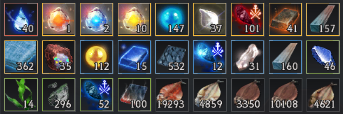
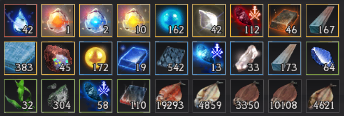
dsff

diff --git a/black.html b/black.html
@@ -318,6 +318,7 @@
           <input type = "text" maxlength = "10"><button>1</button>
           <input type = "text" maxlength = "10"><button>1</button>
           <input type = "text" maxlength = "10"><button>1</button>
+          <div id="S1_일리야에페리아창고">일리에페</div><!-- width등-->
           <br>
           <input type = "text" maxlength = "10"><button>1</button>
           <input type = "text" maxlength = "10"><button>1</button>
@@ -412,8 +413,9 @@
         <form onsubmit="return false"><input type = "text" maxlength = "10"></form>
         <div></div><!--width등--><span>, </span>
 
-        <button id="textarea기능버튼" onclick="textarea보기숨기기()">textarea올리기</button>
-        <button onclick="섬검색초기화()">섬검색결과 초기화</button>
+        <button id="textarea보기숨기기">textarea올리기</button>
+        <button id="섬검색초기화">섬검색결과 초기화</button>
+        <button><a href="https://creativefactorys.tistory.com/entry/%EA%B2%80%EC%9D%80%EC%82%AC%EB%A7%89-%EC%BD%95%EC%8A%A4-%ED%95%B4%EC%A0%81%EB%8B%A8-%EC%9C%A0%EB%A0%B9%EC%84%A0-%EB%A7%89%EC%82%AC-%EB%A3%A8%ED%8A%B8-%EC%A0%95%EB%A6%AC" target="_blank">파도빛각목</a></button>
 
         <h5 style="height:3px;padding:0px;margin:0px;"></h5>
 
@@ -463,9 +465,9 @@
         </textarea>
         <div style="height:195px;"></div>
         <div id="덩어리이동5개textarea">
-          <button onclick=" 덩어리이동5개textarea_모두보기()">기본보기</button>
-          <button onclick=" 덩어리이동5개textarea_두개숨기기()">3번째부터보기</button>
-          <button onclick=" 덩어리이동5개textarea_네개숨기기()">5번째보기</button><br>
+          <button id="textarea덩어리_기본보기">기본보기</button>
+          <button id="textarea덩어리_3번째부터보기">3번째부터보기</button>
+          <button id="textarea덩어리_5번째보기">5번째보기</button><br>
           <textarea>5조각상의 눈물 : 해적의 열쇠,일리야
             5 팔랑나비 박제품 : 목 잘린 용 조각상, 바레미
             5 102년 묵은 황금초 : 뱃사공의 수련서, 오르프스
@@ -525,6 +527,8 @@
                     </textarea>
 
         </div>
+        <img id="S1_일리야창고" style="position: absolute;left:670px;visibility:hidden;" src="portal/images/black_문서/S1_창고_일리야.png" alt="이미지없음"><!--margin-bottom:2px;margin-left:-8px;-->
+        <img id="S1_에페리아창고" style="position: absolute;left:510px;visibility:hidden;" src="portal/images/black_문서/S1_창고_에페리아.png" alt="이미지없음"><!--margin-bottom:2px;margin-left:-8px;-->
         <img src="portal/images/black_문서/S1_해역사진.png" alt="이미지없음"><!--margin-bottom:2px;margin-left:-8px;-->
         <br><br><br><br><br><br><br><br><br><br><br><br><br><br><br><br><br><br><br><br>
         <br><br><br><br><br><br><br><br><br><br><br><br><br><br><br><br><br><br><br><br>
@@ -533,68 +537,68 @@
         <div id="모은재료_파템재료"><!-- 빈칸도 만들고, 세로로 나열됨 -->
           <div id="파템_일반재료1" class="d-inline-block 재료높이"><!--vertical-align: top-->
             <div><button>일반</button><button class="노랑">보유</button><button>점진</button><button>균형</button><button>비상</button><button>용맹</button></div><!-- 심해의 눈물 1-->
-            <div><button title="심해의 눈물"    ></button><button class="노랑"></button><button>42</button><button>50</button><button>42</button><button>42</button></div><!-- 심해의 눈물 1-->
+            <div><button title="[라비켈] '어린' 검은무쇠이빨 1개"    ></button><button class="노랑"></button><button>42</button><button>50</button><button>42</button><button>42</button></div><!-- 심해의 눈물 1-->
             <div><button title="화려한 진주 결정"></button><button class="노랑"></button><button>35</button><button>30</button><button>30</button><button>30</button></div><!-- 화려한 진주 결정-->
             <div><button title="화려한 암염 주괴"></button><button class="노랑"></button><button>35</button><button>30</button><button>30</button><button>30</button></div><!-- 화려한 암염 주괴-->
             <div><button title="짙은 파도빛 각목"></button><button class="노랑"></button><button>144</button><button>144</button><button>144</button><button>170</button></div><!--짙은 파도빛이 감도는 규격 각목 3 -->
             <div><button title="달의 핏줄 아마포"></button><button class="노랑"></button><button>180</button><button>180</button><button>210</button><button>180</button></div><!-- 달의 핏줄이 새겨진 아마포 3-->
 
-            <div><button>함포(무게!!,데미지)</button><button class="노랑"></button><button>점진</button><button>균형</button><button>비상</button><button>용맹</button></div><!-- 심해의 눈물 1-->
-            <div><button title="콕스 전투"    ></button><button class="노랑"></button><button>60</button><button>60</button><button>125</button><button>125</button></div><!-- 심해의 눈물 1-->
-            <div><button title="달의비늘 합판"></button><button class="노랑"></button><button>200</button><button>200</button><button>300</button><button>300</button></div><!-- 화려한 진주 결정-->
-            <div><button title="순수한 암초"  ></button><button class="노랑"></button><button>180</button><button>180</button><button>180</button><button>180</button></div><!-- 화려한 암염 주괴-->
-            <div><button title="파도빛 각목"  ></button><button class="노랑"></button><button>180</button><button>180</button><button>180</button><button>180</button></div><!--짙은 파도빛이 감도는 규격 각목 3 -->
+            <div><button>함포(무게!!,데미지)</button><button class="노랑">보유</button><button>점진</button><button>균형</button><button>비상</button><button>용맹</button></div><!-- 심해의 눈물 1-->
+            <div><button title="[병사퀘] 제 몸 하나는 스스로 지켜야 3개 get, 물교할때 1개씩."    ></button><button class="노랑"></button><button>60</button><button>60</button><button>125</button><button>125</button></div><!-- 심해의 눈물 1-->
+            <div><button title="[라비켈] '어린' 칸디둠 처치. 물교할때 10개씩."></button><button class="노랑"></button><button>200</button><button>200</button><button>300</button><button>300</button></div><!-- 화려한 진주 결정-->
+            <div><button title="[일리야 물교퀘] 8개"  ></button><button class="노랑"></button><button>180</button><button>180</button><button>180</button><button>180</button></div><!-- 화려한 암염 주괴-->
+            <div><button title="[병사퀘] 어린해왕류 3개 get, 물교할때 자수정파편 2개로 2개 교환."  ></button><button class="노랑"></button><button>180</button><button>180</button><button>180</button><button>180</button></div><!--짙은 파도빛이 감도는 규격 각목 3 -->
 
             <div><button style="background-color: blueviolet;color:yellow;">선수상(무게,이속)</button><button class="노랑">보유</button><button>점진</button><button>균형</button><button>비상</button><button>용맹</button></div><!-- 심해의 눈물 1-->
-            <div><button title="홍조 단괴"    ></button><button class="노랑"></button><button>50</button><button>50</button><button>50</button><button>50</button></div><!-- 심해의 눈물 1-->
-            <div><button title="심해초 줄기"  ></button><button class="노랑"></button><button>125</button><button>125</button><button>125</button><button>125</button></div><!-- 화려한 진주 결정-->
-            <div><button title="대양의 현철"  ></button><button class="노랑"></button><button>150</button><button>150</button><button>150</button><button>150</button></div><!-- 화려한 암염 주괴-->
-            <div><button title="강화된 섬나무"></button><button class="노랑"></button><button>300</button><button>300</button><button>300</button><button>300</button></div><!--짙은 파도빛이 감도는 규격 각목 3 -->
+            <div><button title="[큐리오] 산호조각 10개 주면 2개 get"    ></button><button class="노랑"></button><button>50</button><button>50</button><button>50</button><button>50</button></div><!-- 심해의 눈물 1-->
+            <div><button title="[큐리오] 오색빛 산호조각 1개 주면 4개 get"  ></button><button class="노랑"></button><button>125</button><button>125</button><button>125</button><button>125</button></div><!-- 화려한 진주 결정-->
+            <div><button title="물물교환으로 3개씩"  ></button><button class="노랑"></button><button>150</button><button>150</button><button>150</button><button>150</button></div><!-- 화려한 암염 주괴-->
+            <div><button title="[일리야 물교퀘] 10개"></button><button class="노랑"></button><button>300</button><button>300</button><button>300</button><button>300</button></div><!--짙은 파도빛이 감도는 규격 각목 3 -->
 
           </div>
 
           <div id="파템_일반재료2" class="d-inline-block 재료높이"><!--vertical-align: top-->
             <div>중복으로 들어가는 재료</div>
-            <div><button style="font-size: 14px;text-align: left;" class="폭140">달의 비늘이 새겨진 합판 : 많다!!</button></div>
-            <div><button style="font-size: 14px;text-align: left;" class="폭140">달의 핏줄이 새겨진 아마포 : 많아지는지 확인!!</button></div>
-            <div><button style="font-size: 14px;text-align: left;" class="폭140"></button></div>
-            <div><button style="font-size: 14px;text-align: left;" class="폭140"></button></div>
-            <div><button style="font-size: 14px;text-align: left;" class="폭140"></button></div>
+            <div><button style="font-size: 14px;text-align: left;line-height:17px;" class="폭140">달의 비늘이 새겨진 합판 : 많다!!</button></div>
+            <div><button style="font-size: 14px;text-align: left;line-height:17px;" class="폭140">달의 핏줄이 새겨진 아마포 : 많아지는지 확인!!</button></div>
+            <div><button style="font-size: 14px;text-align: left;line-height:17px;" class="폭140"></button></div>
+            <div><button style="font-size: 14px;text-align: left;line-height:17px;" class="폭140"></button></div>
+            <div><button style="font-size: 14px;text-align: left;line-height:17px;" class="폭140"></button></div>
 
             <div><button style="background-color: blueviolet;color:yellow;">흑장갑(무게,내구)</button><button class="노랑">보유</button><button>점진</button><button>균형</button><button>비상</button><button>용맹</button></div><!-- 심해의 눈물 1-->
-            <div><button title="콕스 전투"    ></button><button class="노랑"></button><button>60</button><button>60</button><button>125</button><button>125</button></div><!-- 심해의 눈물 1-->
-            <div><button title="달의비늘 합판"></button><button class="노랑"></button><button>200</button><button>200</button><button>300</button><button>300</button></div><!-- 화려한 진주 결정-->
-            <div><button title="순수한 진주"  ></button><button class="노랑"></button><button>45</button><button>45</button><button>45</button><button>45</button></div><!-- 화려한 암염 주괴-->
-            <div><button title="콕스 하급"    ></button><button class="노랑"></button><button>60</button><button>60</button><button>60</button><button>60</button></div><!--짙은 파도빛이 감도는 규격 각목 3 -->
+            <div><button title="[병사퀘] 제 몸 하나는 스스로 지켜야 3개 get, 물교할때 1개씩."    ></button><button class="노랑"></button><button>60</button><button>60</button><button>125</button><button>125</button></div><!-- 심해의 눈물 1-->
+            <div><button title="[라비켈] '어린' 칸디둠 처치. 물교할때 10개씩."></button><button class="노랑"></button><button>200</button><button>200</button><button>300</button><button>300</button></div><!-- 화려한 진주 결정-->
+            <div><button title="[일리야 물교퀘] 8개"  ></button><button class="노랑"></button><button>45</button><button>45</button><button>45</button><button>45</button></div><!-- 화려한 암염 주괴-->
+            <div><button title="[일리야 물교퀘] 1개"    ></button><button class="노랑"></button><button>60</button><button>60</button><button>60</button><button>60</button></div><!--짙은 파도빛이 감도는 규격 각목 3 -->
 
             <div><button style="background-color: blueviolet;color:yellow;">돛(무게,회전,제동)</button><button class="노랑">보유</button><button>점진</button><button>균형</button><button>비상</button><button>용맹</button></div><!-- 심해의 눈물 1-->
-            <div><button title="홍조 단괴"    ></button><button class="노랑"></button><button>40</button><button>40</button><button>50</button><button>50</button></div><!-- 심해의 눈물 1-->
-            <div><button title="심해초 줄기"  ></button><button class="노랑"></button><button>80</button><button>80</button><button>125</button><button>125</button></div><!-- 화려한 진주 결정-->
-            <div><button title="콕스 상급"    ></button><button class="노랑"></button><button>30</button><button>30</button><button>30</button><button>30</button></div><!-- 화려한 암염 주괴-->
-            <div><button title="빛나는 코발트"></button><button class="노랑"></button><button>30</button><button>30</button><button>30</button><button>30</button></div><!--짙은 파도빛이 감도는 규격 각목 3 -->
+            <div><button title="[큐리오] 산호조각 10개 주면 2개 get"    ></button><button class="노랑"></button><button>40</button><button>40</button><button>50</button><button>50</button></div><!-- 심해의 눈물 1-->
+            <div><button title="[큐리오] 오색빛 산호조각 1개 주면 4개 get"  ></button><button class="노랑"></button><button>80</button><button>80</button><button>125</button><button>125</button></div><!-- 화려한 진주 결정-->
+            <div><button title="[일리야 물교퀘] 1개"    ></button><button class="노랑"></button><button>30</button><button>30</button><button>30</button><button>30</button></div><!-- 화려한 암염 주괴-->
+            <div><button title="물교할때 1개씩"></button><button class="노랑"></button><button>30</button><button>30</button><button>30</button><button>30</button></div><!--짙은 파도빛이 감도는 규격 각목 3 -->
           
           </div>
           
           <div id="파템재료_재료아이콘" class="d-inline-block 재료높이"><!--vertical-align: top-->
             <div>중범선-용맹</div><!--padding-top:5px-->
             <div>심해의 눈물 맞춤?</div>
-            <div class="아이콘" data="심해의 눈물"        title="1 [일일]그믐달 길드의 어린 검은무쇠이빨"></div>
-            <div class="아이콘" data="화려한 진주 결정"   title=""  class="아이콘"></div>
-            <div class="아이콘" data="콕스유물 전투"      title="3 [일일]제 몸 하나는 스스로 지켜야, +[탐색]섬 아이의 요청 선택보상"></div>
-            <div class="아이콘" data="화려한 암염 주괴"   title=""></div>
-            <div class="아이콘" data="짙은 파도빛이 감도는 규격 각목" title=""></div>
-            <div class="아이콘" data="달의 핏줄이 새겨진 아마포" title="3"></div>
-            <div class="아이콘" data="홍조빛 해저 단괴"   title="2 [일일]어린 해달 상인들을 위해"></div>
-            <div class="아이콘" data="빛나는 코발트주괴"  title="물물교환, +[탐색]섬 아이의 요청 선택보상"></div>
-            <div class="아이콘" data="달의 비늘이 새겨진 합판" title="10 [일일]그믐달 길드의 칸디둠 사냥꾼"></div>
-            <div class="아이콘" data="콕스유물 상급"      title="1 +[탐색]섬 아이의 요청 선택보상"></div>
-            <div class="아이콘" data="순수한 진주결정"    title="2  [일일]활기찬 일리야 섬 I"></div>
-            <div class="아이콘" data="파도빛이 감도는 규격 각목" title="3 [일일]길드는 자선단체가 아니다."></div>
-            <div class="아이콘" data="대양의 견고한 현철" title=""></div>
-            <div class="아이콘" data="심해초 줄기" title="4"></div>
-            <div class="아이콘" data="순수한 암초조각" title="8 [일일]활기찬 일리야 섬 I"></div>
-            <div class="아이콘" data="콕스유물 하급" title=""></div>
-            <div class="아이콘" data="강화된 섬나무 증착합판" title="1 물물교환"></div>
+            <div class="아이콘" data="심해의 눈물"></div>
+            <div class="아이콘" data="화려한 진주 결정"></div>
+            <div class="아이콘" data="콕스유물 전투"></div>
+            <div class="아이콘" data="화려한 암염 주괴"></div>
+            <div class="아이콘" data="짙은 파도빛이 감도는 규격 각목"></div>
+            <div class="아이콘" data="달의 핏줄이 새겨진 아마포"></div>
+            <div class="아이콘" data="홍조빛 해저 단괴"></div>
+            <div class="아이콘" data="빛나는 코발트주괴"></div>
+            <div class="아이콘" data="달의 비늘이 새겨진 합판"></div>
+            <div class="아이콘" data="콕스유물 상급"></div>
+            <div class="아이콘" data="순수한 진주결정"></div>
+            <div class="아이콘" data="파도빛이 감도는 규격 각목"></div>
+            <div class="아이콘" data="대양의 견고한 현철"></div>
+            <div class="아이콘" data="심해초 줄기"></div>
+            <div class="아이콘" data="순수한 암초조각"></div>
+            <div class="아이콘" data="콕스유물 하급"></div>
+            <div class="아이콘" data="강화된 섬나무 증착합판"></div>
           </div>
           <div id="파템재료_가방아이콘" class="d-inline-block 재료높이" style="vertical-align: top;">
             <div style="padding-top:5px;width:40px;">보유</div>
@@ -619,25 +623,25 @@
             <div class="아이콘"></div><!--  -->
           </div>
           <div id="파템재료_일퀘개수" title="보유기록" class="d-inline-block 재료높이" style="vertical-align: top;">
-            <div><button>일<br><br>get</button><button>보<br><br>유</button></div>
-            <div><button>1</button><button    class="노랑">39</button></div><!-- 심해의 눈물 1-->
-            <div><button>물교</button><button class="노랑">34</button></div><!-- 화려한 진주 결정-->
-            <div><button>3</button><button    class="노랑">95</button></div><!-- 콕스유물 전투 -->
-            <div><button>물교</button><button class="노랑">39</button></div><!-- 화려한 암염 주괴-->
-            <div><button>3</button><button    class="노랑">150</button></div><!--짙은 파도빛이 감도는 규격 각목 3 -->
+            <div><button>일<br><br>get</button><button title="파템재료_일퀘개수">보<br><br>유</button></div>
+            <div><button>1</button><button    class="노랑">42</button></div><!-- 심해의 눈물 1-->
+            <div><button>물교</button><button class="노랑">42</button></div><!-- 화려한 진주 결정-->
+            <div><button>3</button><button    class="노랑">112</button></div><!-- 콕스유물 전투 -->
+            <div><button>물교</button><button class="노랑">46</button></div><!-- 화려한 암염 주괴-->
+            <div><button>3</button><button    class="노랑">167</button></div><!--짙은 파도빛이 감도는 규격 각목 3 -->
 
-            <div><button>3</button><button    class="노랑">352</button></div><!-- 달의 핏줄이 새겨진 아마포 3-->
-            <div><button>2</button><button    class="노랑">31</button></div><!-- 홍조빛 해저 단괴-->
-            <div><button>물교</button><button class="노랑">13</button></div><!--빛나는 코발트주괴 -->
-            <div><button>10</button><button    class="노랑">532</button></div><!-- 달의 비늘이 새겨진 합판-->
-            <div><button>1</button><button    class="노랑">11</button></div><!-- 콕스유물 상급-->
-            <div><button>2</button><button    class="노랑">29</button></div><!-- 순수한 진주결정-->
-            <div><button>3</button><button    class="노랑">153</button></div><!--파도빛이 감도는 규격 각목 -->
-            <div><button>물교</button><button class="노랑">34</button></div><!-- 대양의 견고한 현철-->
-            <div><button>4</button><button    class="노랑">10</button></div><!-- 심해초 줄기-->
-            <div><button>8</button><button    class="노랑">280</button></div><!-- 순수한 암초조각-->
-            <div><button>3</button><button    class="노랑">49</button></div><!-- 콕스유물 하급-->
-            <div><button>10</button><button    class="노랑">90</button></div><!--강화된 섬나무 증착합판 -->
+            <div><button>3</button><button    class="노랑">383</button></div><!-- 달의 핏줄이 새겨진 아마포 3-->
+            <div><button>2</button><button    class="노랑">45</button></div><!-- 홍조빛 해저 단괴-->
+            <div><button>물교</button><button class="노랑">19</button></div><!--빛나는 코발트주괴 -->
+            <div><button>10</button><button    class="노랑">542</button></div><!-- 달의 비늘이 새겨진 합판-->
+            <div><button>1</button><button    class="노랑">13</button></div><!-- 콕스유물 상급-->
+            <div><button>2</button><button    class="노랑">33</button></div><!-- 순수한 진주결정-->
+            <div><button>3</button><button    class="노랑">173</button></div><!--파도빛이 감도는 규격 각목 -->
+            <div><button>물교</button><button class="노랑">64</button></div><!-- 대양의 견고한 현철-->
+            <div><button>4</button><button    class="노랑">32</button></div><!-- 심해초 줄기-->
+            <div><button>8</button><button    class="노랑">304</button></div><!-- 순수한 암초조각-->
+            <div><button>3</button><button    class="노랑">58</button></div><!-- 콕스유물 하급-->
+            <div><button>10</button><button    class="노랑">110</button></div><!--강화된 섬나무 증착합판 -->
           </div>
 
           <div id="재료모은거" class="d-inline-block 재료높이" style="vertical-align: top;padding-right:3px;">
@@ -889,24 +893,6 @@
       <h6 style="text-indent: 23px;">if (태그이름=='input') ==> false 	</h6>
       <br>
       <h5 class="fw-bold">target 순번확인 : target표시 > parentNode올라가서 children 순회하여 표시 찾기</h5>
-      <div>
-        <span class="d-inline-block"><code>&lt;div&gt;</code></span><br>
-        <span class="d-inline-block" style="text-indent: 18px;"><code>&lt;h6&gt;첫번째 h6&lt;/h6&gt;</code></span><br>
-        <span class="d-inline-block" style="text-indent: 18px;"><code>&lt;h6&gt;두번째 h6&lt;/h6&gt;</code></span><br>
-        <span class="d-inline-block" style="text-indent: 18px;"><code>&lt;h6 id="선택" &gt;세번째, 세번째를 클릭했을때 e.target 이라고 가정한다. h6&lt;/h6&gt;</code></span><br>
-        <span class="d-inline-block" style="text-indent: 18px;"><code>&lt;h6&gt;네번째 h6&lt;/h6&gt;</code></span><br>
-        <span class="d-inline-block"><code>&lt;/div&gt;</code></span><br>
-        <span class="d-inline-block">e.target을 세번째로 가정하고 아래 코딩으로 id=선택 을 부여했다고 가정한다.</span><br>
-        <span class="d-inline-block"><code style="color:black;">function 타겟순번확인 (e) &#123;</code></span><br>
-        <span class="d-inline-block" style="text-indent:18px;"><code style="color:black;">var 순번; 카운팅=-1;</code></span><br>
-        <span class="d-inline-block" style="text-indent:18px;"><code style="color:black;">e.target.classList.add('선택');</code></span><br>
-        <span class="d-inline-block" style="text-indent:18px;"><code style="color:black;">for (var i=0; i&lt; e.target.parentNode.children.length; i++) &#123;</code></span><br>
-        <span class="d-inline-block" style="text-indent:32px;"><code style="color:black;">카운팅=카운팅+1;</code></span><br>
-        <span class="d-inline-block" style="text-indent:32px;"><code style="color:black;">if (e.target.parentNode.children[i].classList.contains('선택') &#123;순번=카운팅;&#125; </code></span><br>
-        <span class="d-inline-block" style="text-indent:18px;"><code style="color:black;">&#125;</code></span><br>
-        <span class="d-inline-block" style="text-indent:18px;"><code style="color:black;">e.target.classList.remove('선택');</code></span><br>
-        <span class="d-inline-block"><code style="color:black;"></code> &#125;</span><br>
-      </div>
     </div>
     <br><br><br><br><br><br><br>
   </div>

diff --git a/kim.html b/kim.html
@@ -431,7 +431,7 @@
     1081_2023-08-19_1_9_16_23_24_38_17_1082_2023-08-26_21_26_27_32_34_42_31_1083_2023-09-02_3_7_14_15_22_38_17_1084_2023-09-09_8_12_13_29_33_42_5_1085_2023-09-16_4_7_17_18_38_44_36_
     1086_2023-09-23_11_16_25_27_35_36_37_1087_2023-09-30_13_14_18_21_34_44_16_1088_2023-10-07_11_21_22_30_39_44_31_1089_2023-10-14_4_18_31_37_42_43_40_1090_2023-10-21_12_19_21_29_40_45_1_
     1091_2023-10-28_6_20_23_24_28_30_44_1092_2023-11-04_7_18_19_26_33_45_37_1093_2023-11-11_10_17_22_30_35_43_44_1094_2023-11-18_6_7_15_22_26_40_41_1095_2023-11-25_8_14_28_29_34_40_12_
-    1096_2023-12-02_1_12_16_19_23_43_34_1097_2023-12-09_14_33_34_35_37_40_4
+    1096_2023-12-02_1_12_16_19_23_43_34_1097_2023-12-09_14_33_34_35_37_40_4_1098_2023-12-16_12_16_21_24_41_43_15
   </div>
 
 </div>

diff --git a/ycy.html b/ycy.html
@@ -567,7 +567,7 @@
     1081_2023-08-19_1_9_16_23_24_38_17_1082_2023-08-26_21_26_27_32_34_42_31_1083_2023-09-02_3_7_14_15_22_38_17_1084_2023-09-09_8_12_13_29_33_42_5_1085_2023-09-16_4_7_17_18_38_44_36_
     1086_2023-09-23_11_16_25_27_35_36_37_1087_2023-09-30_13_14_18_21_34_44_16_1088_2023-10-07_11_21_22_30_39_44_31_1089_2023-10-14_4_18_31_37_42_43_40_1090_2023-10-21_12_19_21_29_40_45_1_
     1091_2023-10-28_6_20_23_24_28_30_44_1092_2023-11-04_7_18_19_26_33_45_37_1093_2023-11-11_10_17_22_30_35_43_44_1094_2023-11-18_6_7_15_22_26_40_41_1095_2023-11-25_8_14_28_29_34_40_12_
-    1096_2023-12-02_1_12_16_19_23_43_34_1097_2023-12-09_14_33_34_35_37_40_4
+    1096_2023-12-02_1_12_16_19_23_43_34_1097_2023-12-09_14_33_34_35_37_40_4_1098_2023-12-16_12_16_21_24_41_43_15
   </div>
 
 </div>

diff --git a/portal/assets/css/black.css b/portal/assets/css/black.css
@@ -184,6 +184,8 @@
 #파템재료_일퀘개수 button[title] {background-color: chartreuse;}
 #리스너용섬이름검색 form {display:inline-block;}
 #교섭력계산 > #차감input들 > div {display:inline-block;}
+#모은재료_파템재료 > div > div > button:nth-of-type(6){background-color:chocolate;} /* 용맹 개수 기록 부분 */
+
 
 #캔버스바디 {overflow:hidden; text-overflow:ellipsis; white-space:nowrap;}
 .canvas카테고리 > div {width:620px;display:inline-block;}/* 항상 세로 세줄로 보고 싶다 */
